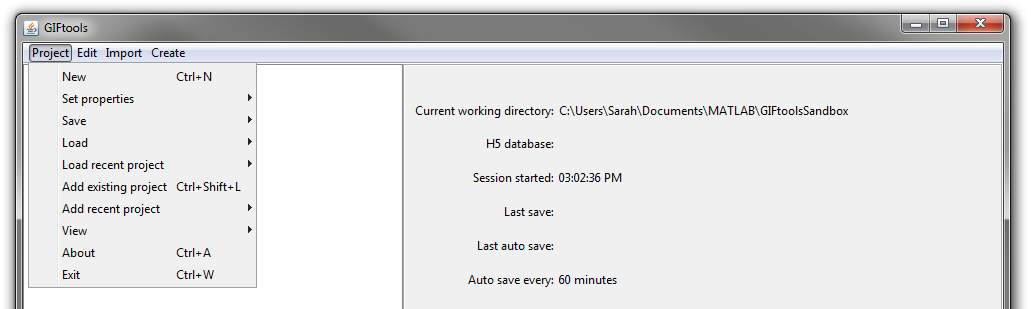
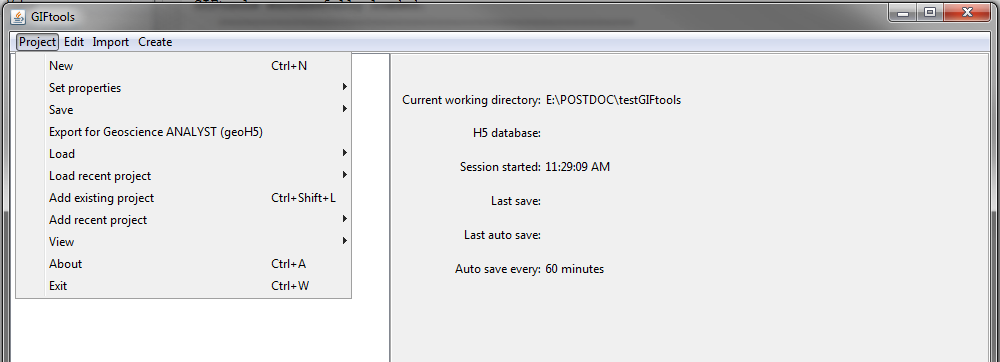
add main menu images and remove blank edit options

diff --git a/content/objectFunctionality/forward/editOptions/magnetics.rst b/content/objectFunctionality/forward/editOptions/magnetics.rst
@@ -70,17 +70,11 @@ Units
 **Inputs:**
 
     - **3D effective susceptibility  model:** this model is a 3d vector model containing effective susceptibility values in SI units. The first column contains the effective susceptibility values along the direction of the inducing field. The remaining columns are effective susceptibilities along two orthogonal directions with respect to the inducing field direction.
-    - **Lower bound:** effective susceptibility in SI units
 
 **Outputs:**
 
     - **Predicted data:** total magnetic intensity and amplitude data are predicted in nanoTeslas (*nT*)
 
-
-.. _fwdEditOptions_MagPDE:
-
-PDE Octree
-----------
 
 
 

diff --git a/content/basicFunctionality/create/create_index.rst b/content/basicFunctionality/create/create_index.rst
@@ -17,3 +17,8 @@ Create allows the user to generate objects which are used to carry out a wide va
         Fortran utility program <fortran/fortran_index>
         Create Survey <survey/survey_index>
         Model Builder <ModelBuilder/ModelBuilder_index>
+
+
+.. figure:: ../../../images/createMenu.png
+    :align: center
+    :width: 700

diff --git a/content/basicFunctionality/import/import_index.rst b/content/basicFunctionality/import/import_index.rst
@@ -16,3 +16,9 @@ GIFtools is capable of importing data, meshes, physical property models, cell we
         Import Weights <weights>
         Import Images (Raster) <importImage>
         Import Shape Files (RBIS vector) <shape>
+
+
+
+.. figure:: ../../../images/importMenu.png
+    :align: center
+    :width: 700

diff --git a/content/objectFunctionality/forward/editOptions/dcip.rst b/content/objectFunctionality/forward/editOptions/dcip.rst
@@ -55,19 +55,6 @@ Units
     - **IP data:** The IP data are the apparent chargeabilities. The units are the same as the input chargeability model.
 
 
-.. _fwdEditOptions_dcip3d:
-
-DCIP3D
-======
-
-
-
-
-
-.. _fwdEditOptions_dcipoctree:
-
-DCIP Octree
-===========
 
 
 

diff --git a/content/basicFunctionality/project/project_index.rst b/content/basicFunctionality/project/project_index.rst
@@ -19,3 +19,6 @@ The contents of this drop-down menu will assist in saving, opening and managing 
         Find the version number <about>
 
 
+.. figure:: ../../../images/projectMenu.png
+    :align: center
+    :width: 700

diff --git a/content/basicFunctionality/edit/edit_index.rst b/content/basicFunctionality/edit/edit_index.rst
@@ -15,3 +15,7 @@ The contents of this drop-down menu will allow the user to rename, copy and dele
         delete
 
 
+
+.. figure:: ../../../images/editMenu.png
+    :align: center
+    :width: 700

diff --git a/content/objectFunctionality/forward/editOptions/index.rst b/content/objectFunctionality/forward/editOptions/index.rst
@@ -21,7 +21,6 @@ The options for each forward modeling type are organized as follows:
        Gravity <gravity>
        Magnetics <magnetics>
        DCIP <dcip>
-       EM1DFM <em1dfm>
 
 
 

diff --git a/content/objectFunctionality/inversion/editOptions/dcip.rst b/content/objectFunctionality/inversion/editOptions/dcip.rst
@@ -133,21 +133,6 @@ Advanced (Parameter 2)
 
 
 
-.. _invEditOptions_dcip3d:
-
-DCIP3D
-======
-
-
-
-
-
-
-
-.. _invEditOptions_dcipoctree:
-
-DCIP Octree
-===========
 
 
 

diff --git a/content/objectFunctionality/inversion/editOptions/magnetics.rst b/content/objectFunctionality/inversion/editOptions/magnetics.rst
@@ -270,10 +270,6 @@ Inversion (Remanence) Tab
 
 
 
-.. _invEditOptions_MAGOCTDE:
-
-Mag PDE Inversion
------------------
 
 
 

diff --git a/content/objectFunctionality/forward/editOptions/gravity.rst b/content/objectFunctionality/forward/editOptions/gravity.rst
@@ -40,10 +40,6 @@ Units
 
 
 
-.. _fwdEditOptions_GG:
-
-Gravity Gradiometry
--------------------
 
 
 
